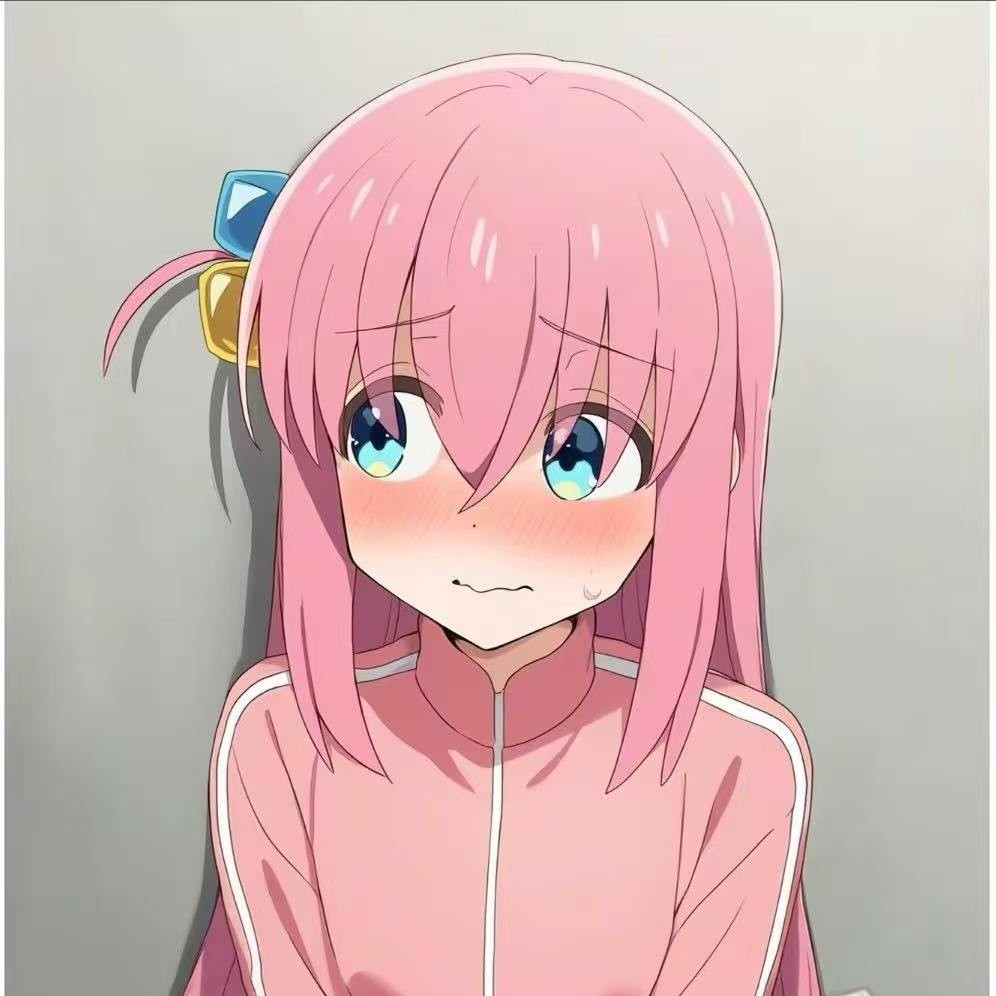
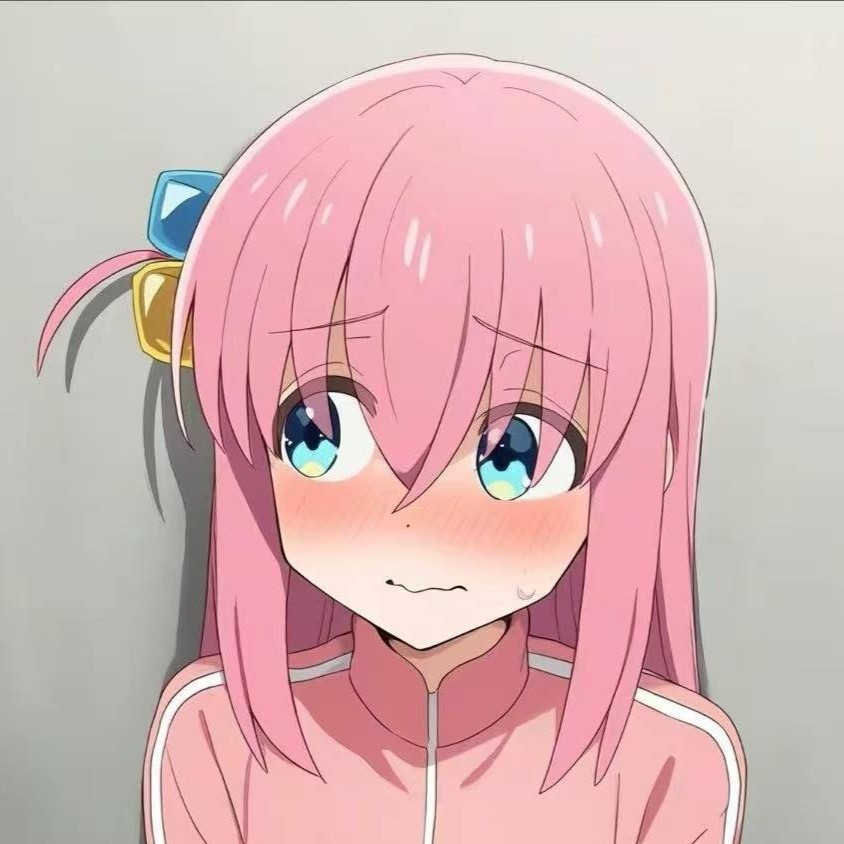
首页 Hero 定稿：slogan 换法语 La vie n'est / pas ailleurs；移除身份小字与 CTA 按钮；简介改粉色；替换头像图

diff --git a/src/sections/Hero.tsx b/src/sections/Hero.tsx
@@ -29,33 +29,16 @@ export default function Hero() {
 
         {/* 右：文字（移动端随头像居中，桌面端左对齐） */}
         <div>
-          <p className="text-sm uppercase tracking-[0.3em] text-accent">{site.role}</p>
-
           {/* 两行大字：上白下粉 */}
-          <h1 className="mt-6 text-[clamp(44px,7vw,104px)] font-bold leading-[0.95]">
+          <h1 className="text-[clamp(44px,7vw,104px)] font-bold leading-[0.95]">
             <span className="text-white">{site.hero.sloganLead}</span>
             <br />
             <span className="text-accent">{site.hero.sloganAccent}</span>
           </h1>
 
-          <p className="mx-auto mt-7 max-w-xl leading-relaxed text-muted md:mx-0">
+          <p className="mx-auto mt-8 max-w-xl text-[20px] leading-relaxed text-accent md:mx-0">
             {site.hero.subtitle}
           </p>
-
-          <div className="mt-9 flex justify-center gap-4 md:justify-start">
-            <a
-              href="#works"
-              className="rounded-full bg-accent px-6 py-3 text-sm font-medium text-bg transition-opacity hover:opacity-90"
-            >
-              {site.hero.ctaPrimary}
-            </a>
-            <a
-              href="#contact"
-              className="rounded-full border border-white/20 px-6 py-3 text-sm transition-colors hover:border-white/50"
-            >
-              {site.hero.ctaSecondary}
-            </a>
-          </div>
         </div>
       </div>
     </section>

diff --git a/src/content/site.ts b/src/content/site.ts
@@ -11,7 +11,6 @@ export interface NavLink {
 export const site = {
   // ---- 基本信息 ----
   name: '你的名字',
-  role: '你的身份 / 一句话介绍（占位，待替换）',
 
   // ---- 顶部导航 ----
   nav: [
@@ -25,12 +24,10 @@ export const site = {
 
   // ---- 首屏 ----
   hero: {
-    // slogan：衬线斜体名句（拉丁 / 法语 / 英语皆可），sloganAccent 段粉色高亮
-    sloganLead: 'Per aspera',
-    sloganAccent: 'ad astra',
-    subtitle: '这里写一句话介绍你自己，说明你是做什么的、擅长什么（占位文案，后续替换）',
-    ctaPrimary: '查看作品',
-    ctaSecondary: '联系我',
+    // slogan：两行大字，sloganAccent 段粉色高亮
+    sloganLead: 'La vie n\'est',
+    sloganAccent: 'pas ailleurs',
+    subtitle: '真的要偷看我的网站吗？那...那就看吧',
   },
 
   // ---- 联系方式（全站只此一份）----
